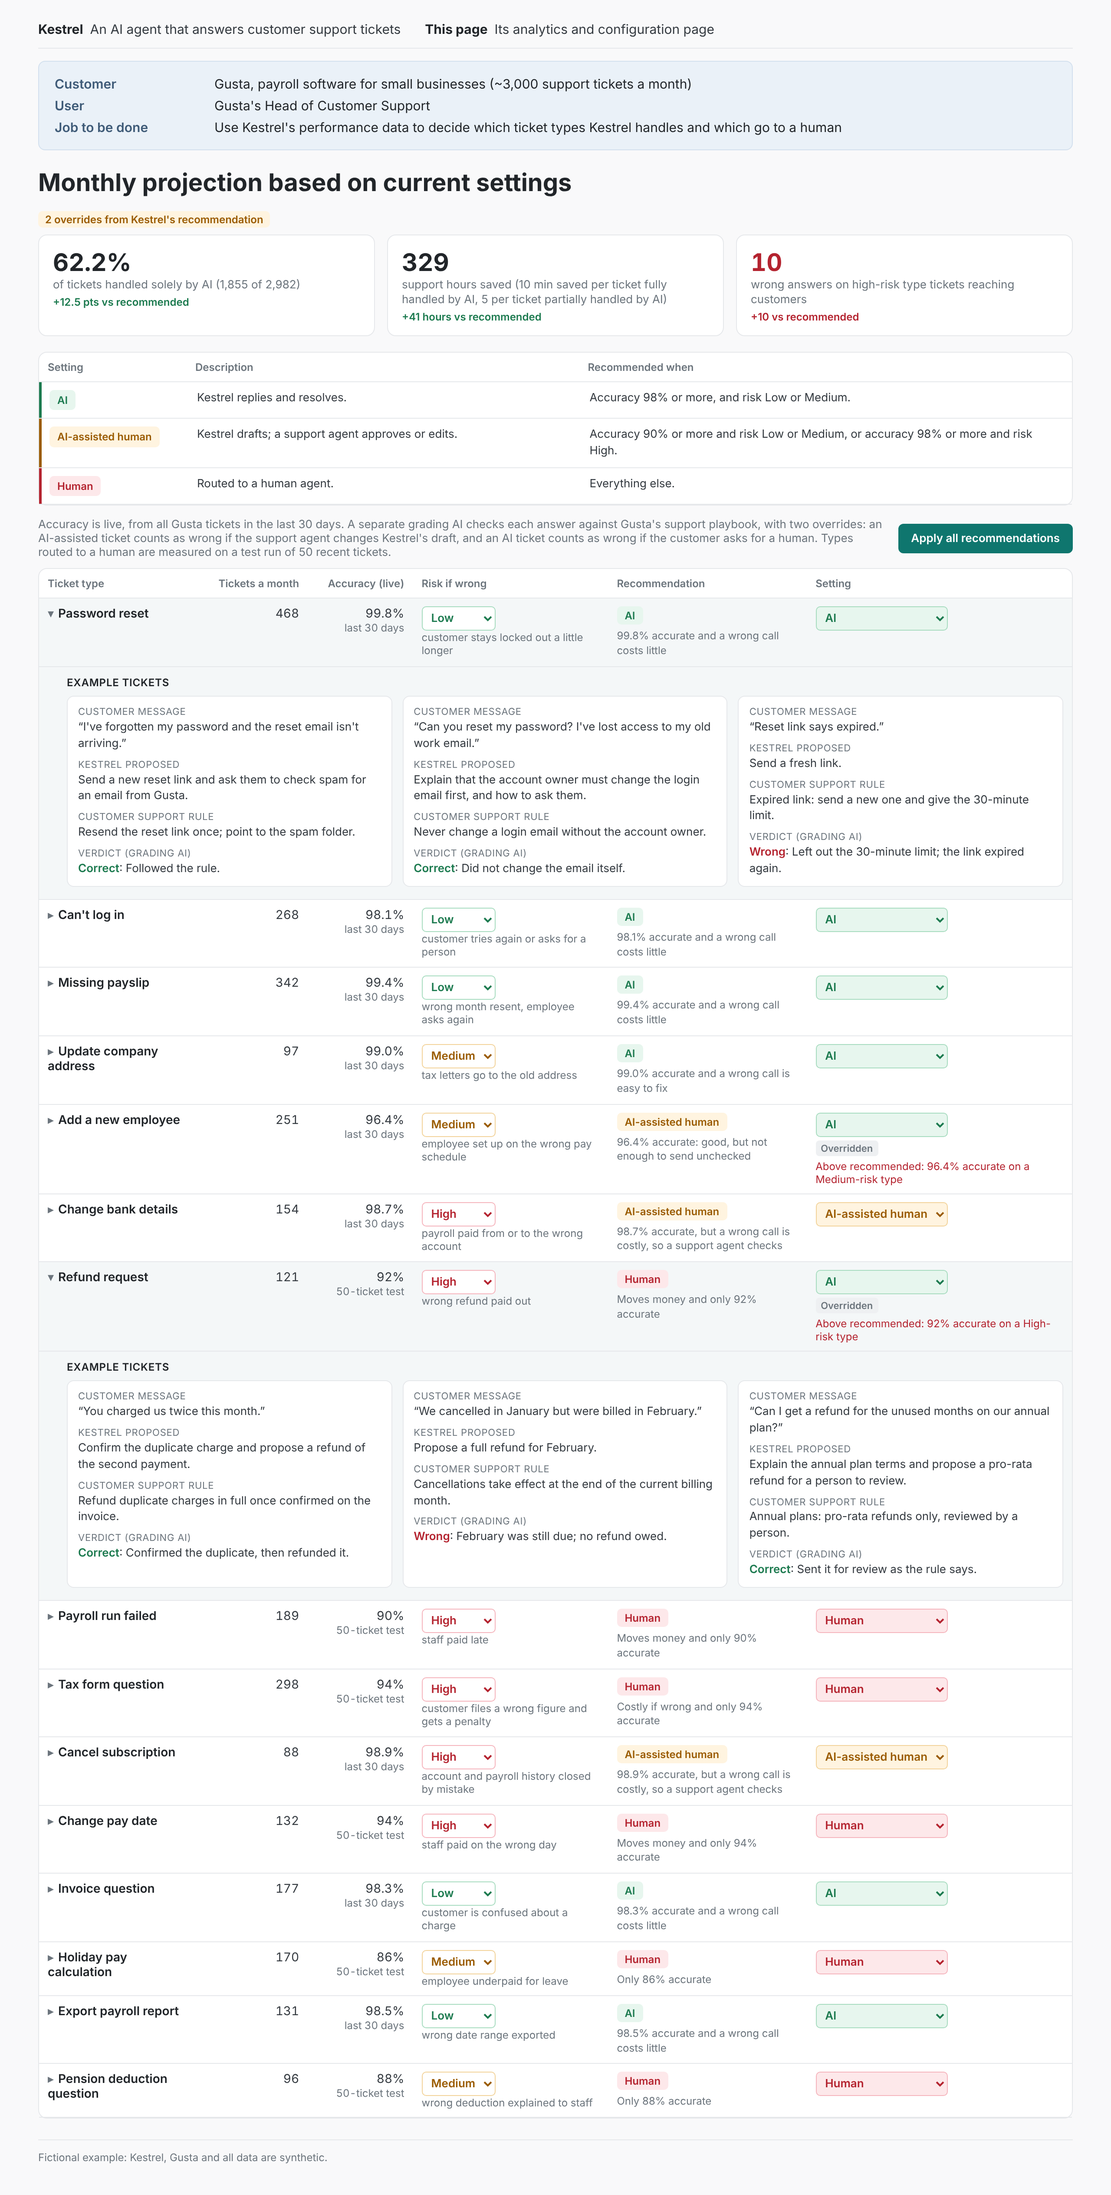
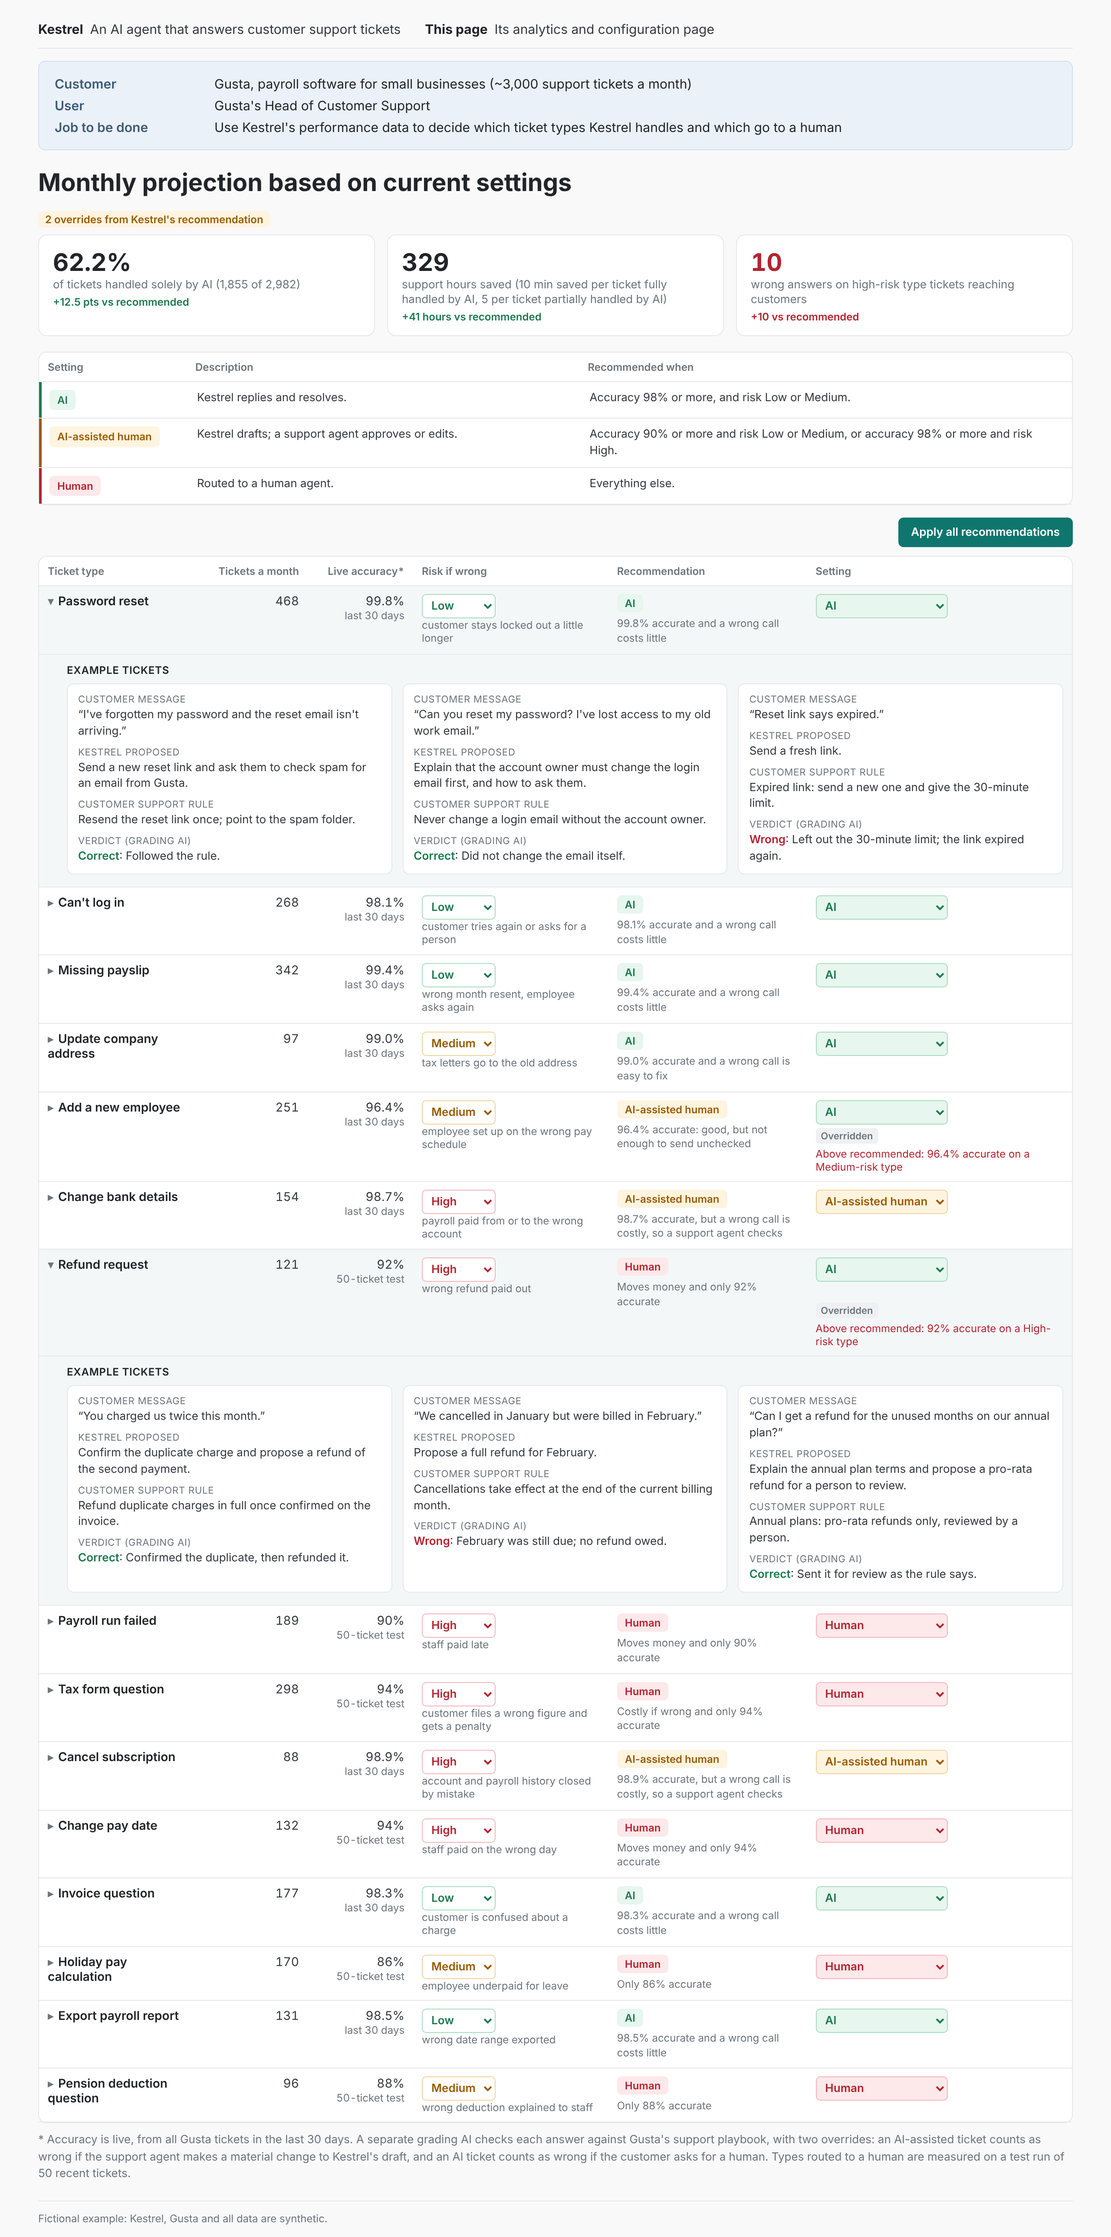
Inline confirmations next to the changed control; footnote for live accuracy; no white space under the demo
Claude-Session: https://claude.ai/code/session_016JoguXTxkWcj5knaYbAtMZ

diff --git a/examples/kestrel/run/build/mvp.html b/examples/kestrel/run/build/mvp.html
@@ -6,7 +6,7 @@
 :root{--text:#343a40;--head:#212529;--mute:#6c757d;--line:#e6e8eb;--bg:#f9f9fa;--ai-bg:#e7f6ee;--ai:#1c7a4f;--mix-bg:#fff4e0;--mix:#9a5b00;--hum-bg:#fde8ea;--hum:#b4232f;--open:#f4f7f8}
 *{box-sizing:border-box}
 body{margin:0;background:var(--bg);color:var(--text);font-family:Inter,Arial,sans-serif;font-size:14px}
-main{max-width:1240px;margin:0 auto;padding:24px 24px 36px}
+main{max-width:1240px;margin:0 auto;padding:24px 24px 14px}
 .intro{display:flex;flex-wrap:wrap;gap:6px 28px;font-size:15px;margin:0 0 14px;padding-bottom:12px;border-bottom:1px solid var(--line)}
 .intro b{color:var(--head);margin-right:8px}.intro span{color:var(--text)}
 .header{display:grid;grid-template-columns:170px 1fr;gap:6px 14px;font-size:15px;margin:0 0 20px;padding:16px 18px;background:#eaf1f8;border:1px solid #d3e0ee;border-radius:8px}
@@ -36,7 +36,7 @@ td.acc{transition:background-color .6s,color .3s}td.acc-up{background:var(--ai-b
 .chip{display:inline-block;padding:3px 9px;border-radius:5px;font-size:12px;font-weight:600;white-space:nowrap}
 .c-resolve{background:var(--ai-bg);color:var(--ai)}.c-draft{background:var(--mix-bg);color:var(--mix)}.c-human{background:var(--hum-bg);color:var(--hum)}
 .bar{display:flex;justify-content:space-between;align-items:center;gap:12px;margin:4px 0 10px}
-.measure{font-size:13px;color:var(--mute);margin:0}
+.measure{font-size:13px;color:var(--mute);margin:0}.measure.foot{margin-top:10px;line-height:1.5}
 button.apply{font:inherit;font-size:13px;font-weight:600;background:#0f766e;color:#fff;border:1px solid #0f766e;border-radius:6px;padding:8px 14px;cursor:pointer;white-space:nowrap}
 button.apply:hover{background:#0b5f59}
 .panel{background:#fff;border:1px solid var(--line);border-radius:10px}
@@ -63,9 +63,9 @@ tr.detail td{background:var(--open);padding:2px 10px 14px 32px}
 .exbox p{margin:0 0 7px}.exbox p:last-child{margin:0}
 .lbl{display:block;font-size:11px;text-transform:uppercase;letter-spacing:.4px;color:var(--mute)}
 .ok{color:var(--ai);font-weight:600}.no{color:var(--hum);font-weight:600}
-.toast{position:fixed;right:24px;bottom:24px;background:var(--head);color:#fff;font-size:13px;padding:10px 14px;border-radius:8px;box-shadow:0 6px 20px rgba(0,0,0,.18);opacity:0;transform:translateY(8px);transition:opacity .2s,transform .2s;pointer-events:none;z-index:10}
-.toast.show{opacity:1;transform:none}.toast .tick{color:#7ee2b0;font-weight:700;margin-right:6px}
-footer{margin-top:24px;color:var(--mute);font-size:12px;border-top:1px solid var(--line);padding-top:12px}
+.inline-ok{font-size:12px;font-weight:600;color:var(--ai);margin-top:5px;opacity:0;transition:opacity .25s}.inline-ok.show{opacity:1}.inline-ok .tick{margin-right:4px}
+.bar .inline-ok{margin:0 10px 0 0}
+footer{margin-top:20px;margin-bottom:0;color:var(--mute);font-size:12px;border-top:1px solid var(--line);padding-top:12px}
 @media (max-width:900px){.summary,.exgrid{grid-template-columns:1fr}.hide-sm{display:none}main{padding:16px}.header{grid-template-columns:1fr}.bar{flex-direction:column;align-items:flex-start}}
 </style></head><body>
 <main>
@@ -75,10 +75,11 @@ footer{margin-top:24px;color:var(--mute);font-size:12px;border-top:1px solid var
 <div class="dash-head" id="dashHead"></div>
 <div class="summary" id="summary"></div>
 <div class="panel rules" id="rules"></div>
-<div class="bar"><p class="measure" id="measure"></p><button class="apply" id="applyAll" onclick="applyAll()">Apply all recommendations</button></div>
+<div class="bar" style="justify-content:flex-end"><button class="apply" id="applyAll" onclick="applyAll()">Apply all recommendations</button></div>
 <div class="panel"><table id="types"></table></div>
+<p class="measure foot" id="measure"></p>
 <footer id="footer"></footer>
-<div class="toast" id="toast" role="status" aria-live="polite"></div>
+
 </main>
 
 <script id="calc">
@@ -125,7 +126,7 @@ function staticParts(){
     <tr class="r-resolve"><td><span class="chip c-resolve">AI</span></td><td>${K} replies and resolves.</td><td>Accuracy 98% or more, and risk Low or Medium.</td></tr>
     <tr class="r-draft"><td><span class="chip c-draft">AI-assisted human</span></td><td>${K} drafts; a support agent approves or edits.</td><td>Accuracy 90% or more and risk Low or Medium, or accuracy 98% or more and risk High.</td></tr>
     <tr class="r-human"><td><span class="chip c-human">Human</span></td><td>Routed to a human agent.</td><td>Everything else.</td></tr></table>`;
-  document.getElementById('measure').textContent = `Accuracy is live, from all ${G} tickets in the last 30 days. A separate grading AI checks each answer against ${G}'s support playbook, with two overrides: an AI-assisted ticket counts as wrong if the support agent changes ${K}'s draft, and an AI ticket counts as wrong if the customer asks for a human. Types routed to a human are measured on a test run of 50 recent tickets.`;
+  document.getElementById('measure').textContent = `* Accuracy is live, from all ${G} tickets in the last 30 days. A separate grading AI checks each answer against ${G}'s support playbook, with two overrides: an AI-assisted ticket counts as wrong if the support agent makes a material change to ${K}'s draft, and an AI ticket counts as wrong if the customer asks for a human. Types routed to a human are measured on a test run of 50 recent tickets.`;
   document.getElementById('footer').textContent = `Fictional example: ${K}, ${G} and all data are synthetic.`;
 }
 function render(){
@@ -157,7 +158,7 @@ function render(){
       <p><span class="lbl">Customer support rule</span>${e.rule}</p>
       <p><span class="lbl">Verdict (grading AI)</span><span class="${e.correct ? 'ok">Correct' : 'no">Wrong'}</span>: ${e.verdict_reason}</p></div>`).join('')}</div></td></tr>` : '';
     return main + det; }).join('');
-  document.getElementById('types').innerHTML = `<tr><th>Ticket type</th><th class="n">Tickets a month</th><th class="n">Accuracy (live)</th><th>Risk if wrong</th><th>Recommendation</th><th>Setting</th></tr>${rows}`;
+  document.getElementById('types').innerHTML = `<tr><th>Ticket type</th><th class="n">Tickets a month</th><th class="n" id="thAcc"><span id="thAccLabel">Live accuracy*</span></th><th>Risk if wrong</th><th>Recommendation</th><th>Setting</th></tr>${rows}`;
 }
 function toggle(i){ open.has(i) ? open.delete(i) : open.add(i); render(); }
 // colour a card for a moment when its number changes: green if the change is good, red if not
@@ -172,14 +173,18 @@ function flash(items){
     setTimeout(() => { card.classList.remove('flash-good', 'flash-bad'); card.querySelectorAll('.arrow').forEach(a => a.remove()); }, 1600); });
   last = now; }
 let toastTimer;
-function toast(msg){ const el = document.getElementById('toast'); el.innerHTML = `<span class="tick">✓</span>${msg}`; el.classList.add('show');
-  clearTimeout(toastTimer); toastTimer = setTimeout(() => el.classList.remove('show'), 2500); }
-function setMode(i, m){ settings[i] = m; render(); toast(`${D.types[i].name} set to ${LABEL[m]}. Projection updated.`); }
+function toast(msg, anchor){ const old = document.getElementById('toast'); if (old) old.remove();
+  const a = anchor && document.querySelector(anchor); if (!a) return;
+  const el = document.createElement('div'); el.id = 'toast'; el.className = 'inline-ok show'; el.setAttribute('role', 'status');
+  el.innerHTML = `<span class="tick">✓</span>${msg}`;
+  if (anchor === '#applyAll') a.insertAdjacentElement('beforebegin', el); else a.insertAdjacentElement('afterend', el);
+  clearTimeout(toastTimer); toastTimer = setTimeout(() => { el.classList.remove('show'); setTimeout(() => el.remove(), 300); }, 2600); }
+function setMode(i, m){ settings[i] = m; render(); toast(`Saved. Projection updated.`, `select[data-i="${i}"]`); }
 // changing risk re-runs the recommendation; the setting follows it only if it was still on the old recommendation
 function setRisk(i, v){ const n = 0, before = recommend(eff()[i], n); risks[i] = v;
   const after = recommend(eff()[i], n); if (settings[i] === before) settings[i] = after; render();
-  toast(`${D.types[i].name} risk set to ${v}. ${after !== before ? 'Now recommended: ' + LABEL[after] + '.' : 'Recommendation unchanged.'}`); }
-function applyAll(silent){ settings = eff().map(t => recommend(t, 0)); render(); if (!silent) toast('All recommendations applied. Projection updated.'); }
+  toast(`Saved. ${after !== before ? 'Now recommended: ' + LABEL[after] + '.' : 'Recommendation unchanged.'}`, `select[data-risk="${i}"]`); }
+function applyAll(silent){ settings = eff().map(t => recommend(t, 0)); render(); if (!silent) toast('All recommendations applied. Projection updated.', '#applyAll'); }
 fetch('../data/ticket_types.json').then(r => r.json()).then(d => { D = d; risks = D.types.map(t => t.risk); staticParts();
   // saved settings: one override (Add a new employee moved up to AI)
   settings = eff().map(t => recommend(t, 0)); settings[D.types.findIndex(t => t.name === 'Add a new employee')] = 'resolve'; render();
@@ -187,7 +192,7 @@ fetch('../data/ticket_types.json').then(r => r.json()).then(d => { D = d; risks 
   setTimeout(() => { live = true; accFlash = {};
     D.types.forEach((t, i) => { const d = (t.correct - t.prev_correct) / t.tested * 100; if (Math.abs(d) >= 0.05) accFlash[i] = d; });
     render(); const n = Object.keys(accFlash).length;
-    toast(`Live accuracy updated with today's tickets: ${n} ticket types changed.`); document.body.dataset.ready = '1';
+    toast(`Updated today: ${n} changed`, '#thAccLabel'); document.body.dataset.ready = '1';
     setTimeout(() => { accFlash = {}; render(); }, 2200); }, 700); })
   .catch(() => { document.querySelector('main').insertAdjacentHTML('afterbegin', '<p class="measure"><b>Couldn\'t load the data.</b> Open this page through a web server, not by double-clicking the file.</p>'); });
 </script>

diff --git a/examples/kestrel/run/build/check_mvp.js b/examples/kestrel/run/build/check_mvp.js
@@ -11,11 +11,11 @@ const srv = http.createServer((q, r) => { const f = path.join(root, decodeURICom
   await p.goto(`http://localhost:${srv.address().port}/build/mvp.html`); await p.waitForSelector('body[data-ready="1"]');
   t('no top bar', !(await p.$('#topbar')));
   const it = await txt('#intro'), hd = await txt('#header'); t('Kestrel and This page at the top, outside the box', it.includes('An AI agent that answers customer support tickets') && it.indexOf('An AI agent') < it.indexOf('Its analytics and configuration page') && !hd.includes('Its analytics') && hd.includes('Customer'));
-  t('accuracy line explains the overrides', (await txt('#measure')).includes('counts as wrong if the support agent changes') && (await txt('#measure')).includes('asks for a human'));
+  t('accuracy footnote below the table explains the overrides', (await txt('#measure')).startsWith('* Accuracy is live') && (await txt('#measure')).includes('makes a material change') && (await p.evaluate(() => !!(document.querySelector('#types').compareDocumentPosition(document.querySelector('#measure')) & Node.DOCUMENT_POSITION_FOLLOWING))) && (await txt('#measure')).includes('asks for a human'));
   t('headline', (await txt('#headline')) === 'Monthly projection based on current settings');
   t('default: 1 override (Add a new employee set to AI, above recommended)', (await txt('#state')) === "1 override from Kestrel's recommendation" && (await p.inputValue('select[data-i="4"]')) === 'resolve' && (await txt('tr.row[data-i="4"]')).includes('Above recommended'));
   t('default projection: 58.1%, 309 hours, 0', (await txt('#sumShare')) === '58.1%' && (await txt('#sumHours')) === '309' && (await txt('#sumHigh')) === '0');
-  t('live accuracy refresh: green and red cells with the change', (await p.$$('td.acc-up')).length === 4 && (await p.$$('td.acc-down')).length === 2 && (await txt('tr.row[data-i="0"] td.acc')).includes('▲ +0.2') && (await txt('#toast')).includes('Live accuracy updated'));
+  t('live accuracy refresh: green and red cells with the change', (await p.$$('td.acc-up')).length === 4 && (await p.$$('td.acc-down')).length === 2 && (await txt('tr.row[data-i="0"] td.acc')).includes('▲ +0.2') && (await txt('#toast')).includes('Updated today: 6 changed'));
   t('no load flash on the hours card', !(await p.getAttribute('#sumHours >> xpath=..', 'class')).includes('flash'));
   t('label says solely by AI', (await txt('#summary')).includes('of tickets handled solely by AI'));
   await p.click('#applyAll');
@@ -30,7 +30,9 @@ const srv = http.createServer((q, r) => { const f = path.join(root, decodeURICom
   await p.click('tr.row:has-text("Refund request") .name');
   t('clicking a row expands it, with a Wrong example', (await p.$$('tr.detail')).length === 2 && (await txt('#types')).includes('February was still due'));
   await p.selectOption('select[data-i="6"]', 'resolve');
-  t('confirmation shows after a setting change', await p.isVisible('#toast.show') && (await txt('#toast')).includes('Refund request set to AI. Projection updated.'));
+  t('confirmation shows after a setting change', await p.isVisible('#toast.show') && (await txt('#toast')).includes('Saved. Projection updated.'));
+  const tb = await p.$eval('#toast', e => e.getBoundingClientRect()), sb = await p.$eval('select[data-i="6"]', e => e.getBoundingClientRect());
+  t('confirmation sits right under the changed control, inside its cell', Math.abs(tb.top - sb.bottom) < 12 && Math.abs(tb.left - sb.left) < 4);
   const row = await txt('tr.row[data-i="6"]');
   t('raising AI share flashes green, high-risk wrong answers flash red', (await p.getAttribute('#sumShare >> xpath=..', 'class')).includes('flash-good') && (await p.getAttribute('#sumHigh >> xpath=..', 'class')).includes('flash-bad'));
   t('override shows Overridden and the warning', row.includes('Overridden') && row.includes('Above recommended: 92% accurate on a High-risk type'));
@@ -43,7 +45,7 @@ const srv = http.createServer((q, r) => { const f = path.join(root, decodeURICom
   // risk: Password reset Low -> High moves it to AI-assisted human; the setting follows because it was on the recommendation
   await p.selectOption('select[data-risk="0"]', 'High');
   let r0 = await txt('tr.row[data-i="0"]');
-  t('confirmation after a risk change names the new recommendation', (await txt('#toast')).includes('Password reset risk set to High. Now recommended: AI-assisted human.'));
+  t('confirmation after a risk change names the new recommendation', (await txt('#toast')).includes('Saved. Now recommended: AI-assisted human.'));
   t('risk adjusted: "Adjusted by user" under the risk, recommendation and setting follow', (await txt('tr.row[data-i="0"] td:nth-child(4)')).includes('Adjusted by user') && r0.includes('AI-assisted human') && (await p.inputValue('select[data-i="0"]')) === 'draft' && !r0.includes('Overridden'));
   // an overridden setting does not follow a risk change
   await p.selectOption('select[data-i="1"]', 'human'); await p.selectOption('select[data-risk="1"]', 'High');

diff --git a/index.html b/index.html
@@ -3,7 +3,7 @@
 <title>How I go from customer need to a working prototype in an hour</title>
 <style>
 body{margin:0;font-family:Inter,Arial,sans-serif;background:#f9f9fa;color:#343a40}
-main{max-width:1200px;margin:56px auto 40px;padding:0 16px}
+main{max-width:1200px;margin:56px auto 12px;padding:0 16px}
 .intro{max-width:none}
 h1{color:#212529;margin:0 0 10px;font-size:32px;line-height:1.2;white-space:nowrap}p{line-height:1.55;font-size:17px;margin:8px 0}
 .links{margin:18px 0 24px}
@@ -11,9 +11,9 @@ h1{color:#212529;margin:0 0 10px;font-size:32px;line-height:1.2;white-space:nowr
 a.btn{display:inline-block;background:#0f766e;color:#fff;text-decoration:none;padding:11px 16px;border-radius:6px;font-weight:600;margin:0 10px 10px 0}
 a.sec{background:#fff;color:#343a40;border:1px solid #343a40}
 .demo{border:1px solid #e6e8eb;border-radius:10px;overflow:hidden;background:#fff;box-shadow:0 8px 28px rgba(0,0,0,.06)}
-iframe{display:block;width:100%;height:2600px;border:0}
+iframe{display:block;width:100%;height:1200px;border:0}
 @media (max-width:1100px){h1{white-space:normal}}
-@media (max-width:700px){iframe{height:700px}h1{font-size:26px}}
+@media (max-width:700px){h1{font-size:26px}}
 </style></head><body><main>
 <div class="intro">
 <h1>How I go from customer need to a working prototype in an hour</h1>
@@ -24,5 +24,12 @@ iframe{display:block;width:100%;height:2600px;border:0}
 <a class="btn sec" href="https://github.com/kfauzie/product-workflow/tree/main/examples/kestrel">See the data sources, context and code for this prototype</a>
 </div>
 </div>
-<div class="demo"><iframe src="examples/kestrel/run/build/mvp.html" title="Prototype: Kestrel analytics and configuration page (fictional)"></iframe></div>
-</main></body></html>
+<div class="demo"><iframe id="demo" scrolling="no" src="examples/kestrel/run/build/mvp.html" title="Prototype: Kestrel analytics and configuration page (fictional)"></iframe></div>
+</main>
+<script>
+// size the embedded prototype to its content, and keep it sized as rows open and close
+const f = document.getElementById('demo');
+f.addEventListener('load', () => { const d = f.contentDocument, fit = () => { f.style.height = Math.ceil(d.body.getBoundingClientRect().height) + 'px'; };
+  fit(); new ResizeObserver(fit).observe(d.body); });
+</script>
+</body></html>

diff --git a/README.md b/README.md
@@ -23,7 +23,7 @@ Kestrel's analytics and configuration page, for Gusta's Head of Customer Support
 | Adjustments | Risk and setting are both editable. Changing a risk shows "Adjusted by user" and re-runs the recommendation; changing a setting shows "Overridden" and warns when it gives Kestrel more autonomy than recommended. A confirmation appears after each change. The page opens with one override (Add a new employee moved up to AI); "Apply all recommendations" resets it |
 | Example tickets | 3 under each ticket type: customer message, what Kestrel proposed, the customer support rule, and the grading AI's verdict |
 
-Accuracy is live, from all Gusta tickets in the last 30 days. A separate grading AI checks each answer against Gusta's support playbook, with two overrides: an AI-assisted ticket counts as wrong if the support agent changes Kestrel's draft, and an AI ticket counts as wrong if the customer asks for a human. Types routed to a human are measured on a test run of 50 recent tickets. Every number on the page is calculated from [the data](examples/kestrel/run/data/ticket_types.json) and checked by [tests](examples/kestrel/run/build/test_mvp.js) on every push.
+Accuracy is live, from all Gusta tickets in the last 30 days. A separate grading AI checks each answer against Gusta's support playbook, with two overrides: an AI-assisted ticket counts as wrong if the support agent makes a material change to Kestrel's draft, and an AI ticket counts as wrong if the customer asks for a human. Types routed to a human are measured on a test run of 50 recent tickets. Every number on the page is calculated from [the data](examples/kestrel/run/data/ticket_types.json) and checked by [tests](examples/kestrel/run/build/test_mvp.js) on every push.
 
 ## My AI stack
 
